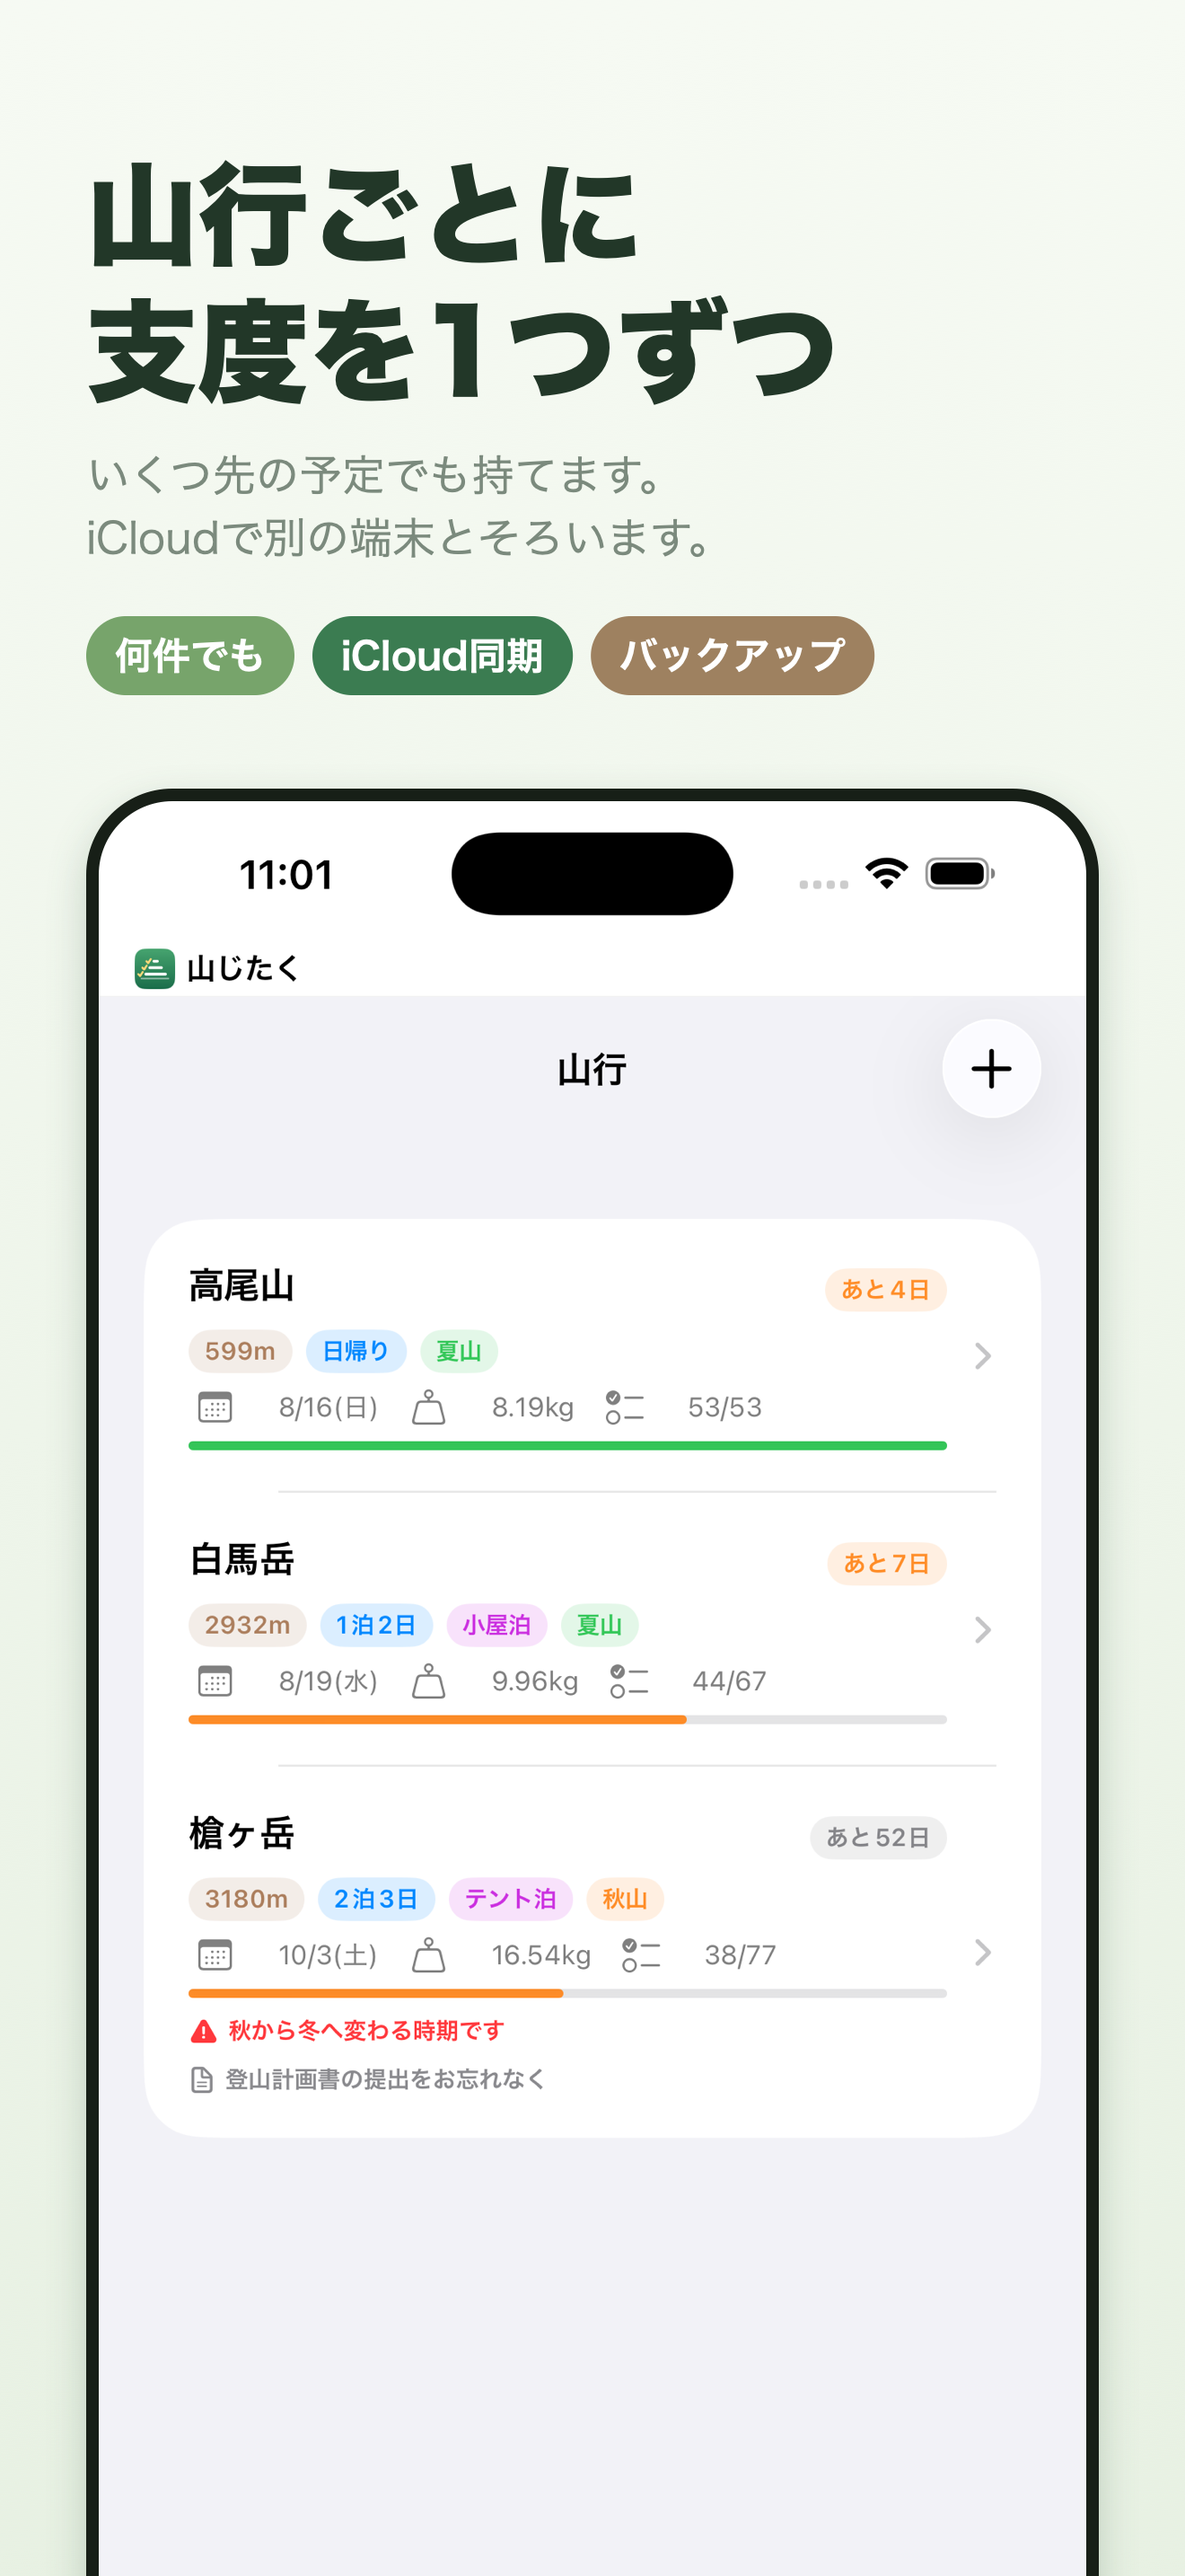
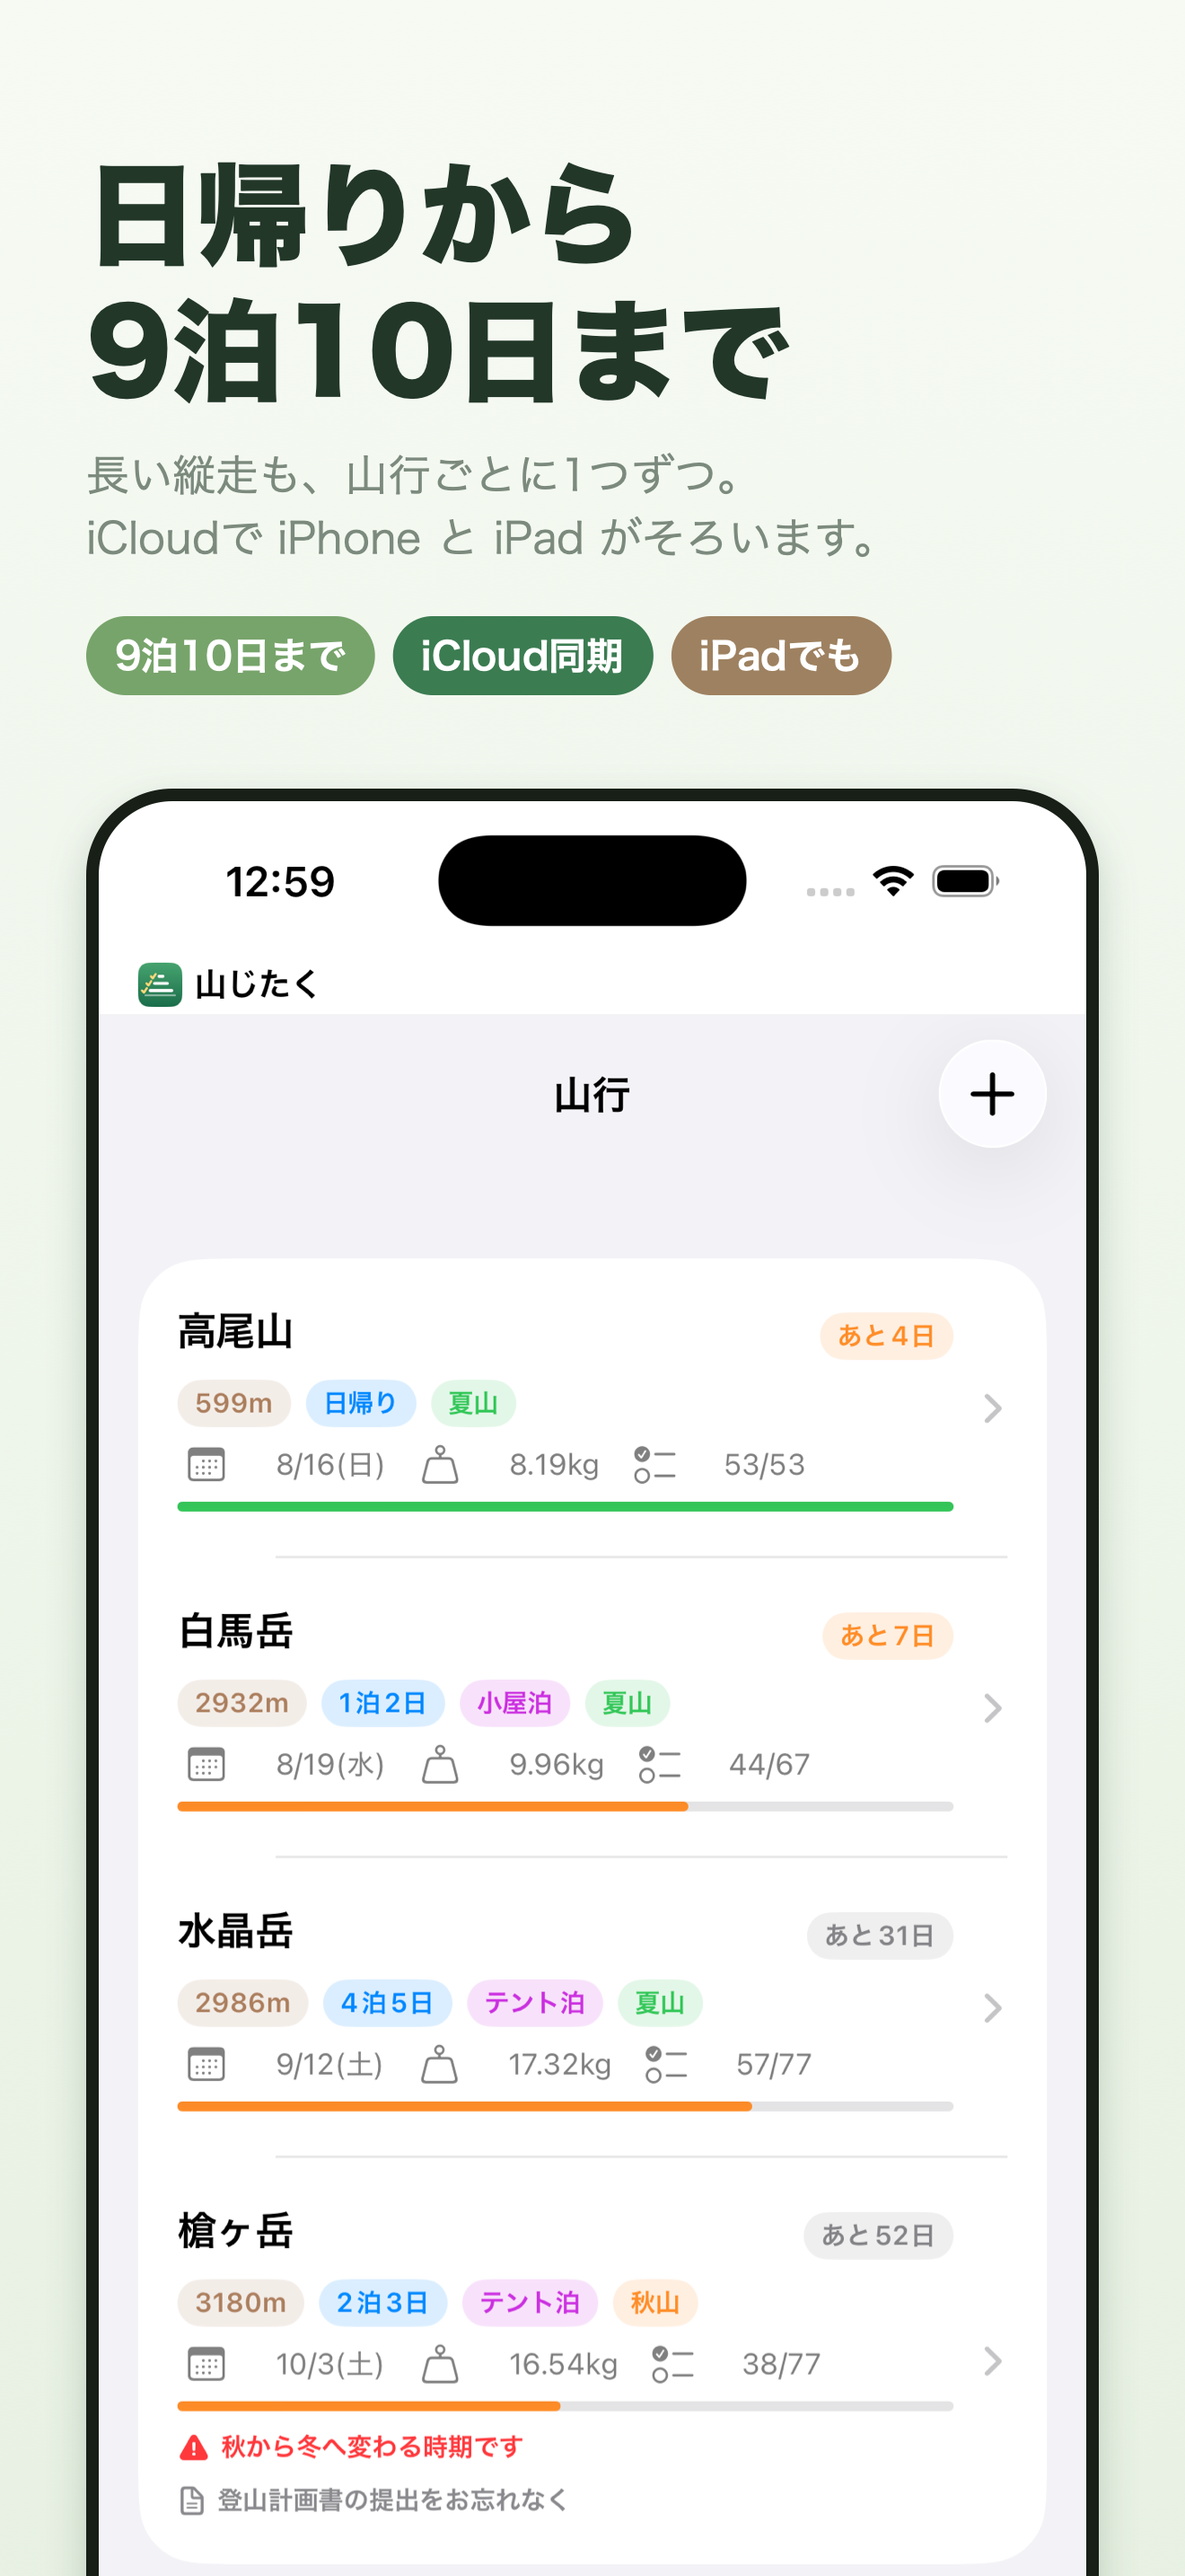
山じたく: iPad対応と9泊10日までの日程を反映

diff --git a/yamajitaku/index.html b/yamajitaku/index.html
@@ -22,7 +22,7 @@
 <p>
 「この時期、この山、何を持っていけばいい？」に答えるアプリです。
 登る山の標高と日付を入れるだけで、その条件に合った持ち物リストを組み立てます。
-iPhone 向け・無料・広告なし・登録不要です。
+日帰りから9泊10日の長い縦走まで。iPhone・iPad 対応、無料・広告なし・登録不要です。
 </p>
 
 <h2>画面</h2>
@@ -36,7 +36,7 @@ iPhone 向け・無料・広告なし・登録不要です。
   <a href="shots/07.png"><img src="thumbs/07.jpg" alt="山頂の標高で天気を読む" loading="lazy" width="322" height="700"></a>
   <a href="shots/08.png"><img src="thumbs/08.jpg" alt="YAMAPにもヤマレコにも書き出せる" loading="lazy" width="322" height="700"></a>
   <a href="shots/09.png"><img src="thumbs/09.jpg" alt="迷ったときのよりどころ" loading="lazy" width="322" height="700"></a>
-  <a href="shots/10.png"><img src="thumbs/10.jpg" alt="山行ごとに支度を1つずつ" loading="lazy" width="322" height="700"></a>
+  <a href="shots/10.png"><img src="thumbs/10.jpg" alt="日帰りから9泊10日まで" loading="lazy" width="322" height="700"></a>
 </div>
 
 <h2>標高が上がると、山の季節は前にずれる</h2>
@@ -58,10 +58,11 @@ iPhone 向け・無料・広告なし・登録不要です。
 
 <h2>できること</h2>
 <ul>
-  <li>標高・季節・日程・泊まり方・年齢層から、約100項目の中で持ち物を組み替え</li>
+  <li>標高・季節・日程（日帰り〜9泊10日）・泊まり方・年齢層から、約100項目の中で持ち物を組み替え</li>
   <li>必携／おすすめ／あると安心の3段階と、「なぜ入っているか」の一行説明</li>
   <li>着替えの枚数を「着替えない」「下着1セットのみ」「毎日着替える」から一括設定</li>
   <li>背負う重さの見積もりと体重比の判定（テント泊は別基準）</li>
+  <li>4泊5日以上は「全部担ぐ計画になっている」ことを知らせ、小屋の食事や売店で減らせる分を案内</li>
   <li>テント泊の献立づくり。食料を重ねると重さとカロリーを合計</li>
   <li>登山計画書・保険・下山連絡の提出チェックと、出発前日の通知</li>
   <li>山頂の標高に合わせて補正した天気予報</li>
@@ -102,8 +103,15 @@ iPhone 向け・無料・広告なし・登録不要です。
 
 <h3>iPad でも使えますか？</h3>
 <p>
-iPhone 向けに作っていますが、iPad でも iPhone 用アプリとして動きます。
-同じ Apple ID なら iCloud で内容がそろいます。
+使えます。iPad 向けのレイアウトになっていて、横向きにも対応しています。
+同じ Apple ID なら iCloud で iPhone と内容がそろいます。
+</p>
+
+<h3>何泊まで計画できますか？</h3>
+<p>
+日帰りから <strong>9泊10日</strong> まで選べます。4泊5日以上になると、
+食料と燃料を全部担ぐ前提で数えていることをお知らせし、山小屋の食事や売店で
+どう減らせるかを案内します。長い縦走ほど、担ぎ切る計画のままだと重さの判定が現実から離れるためです。
 </p>
 
 <h3>Android 版はありますか？</h3>
